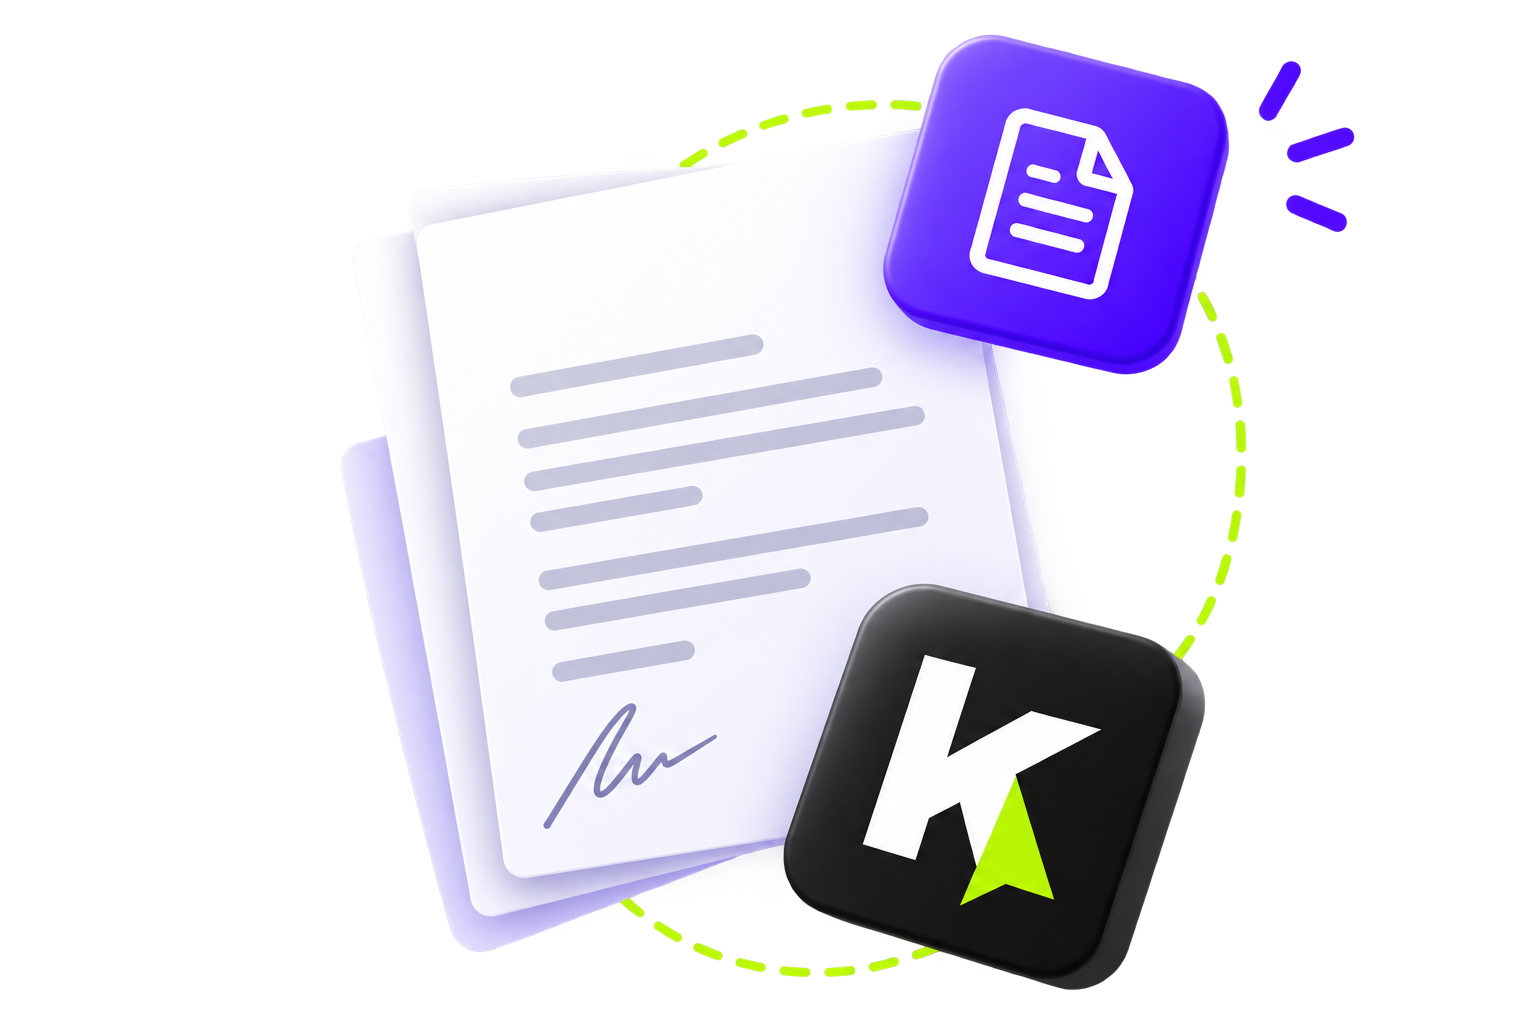
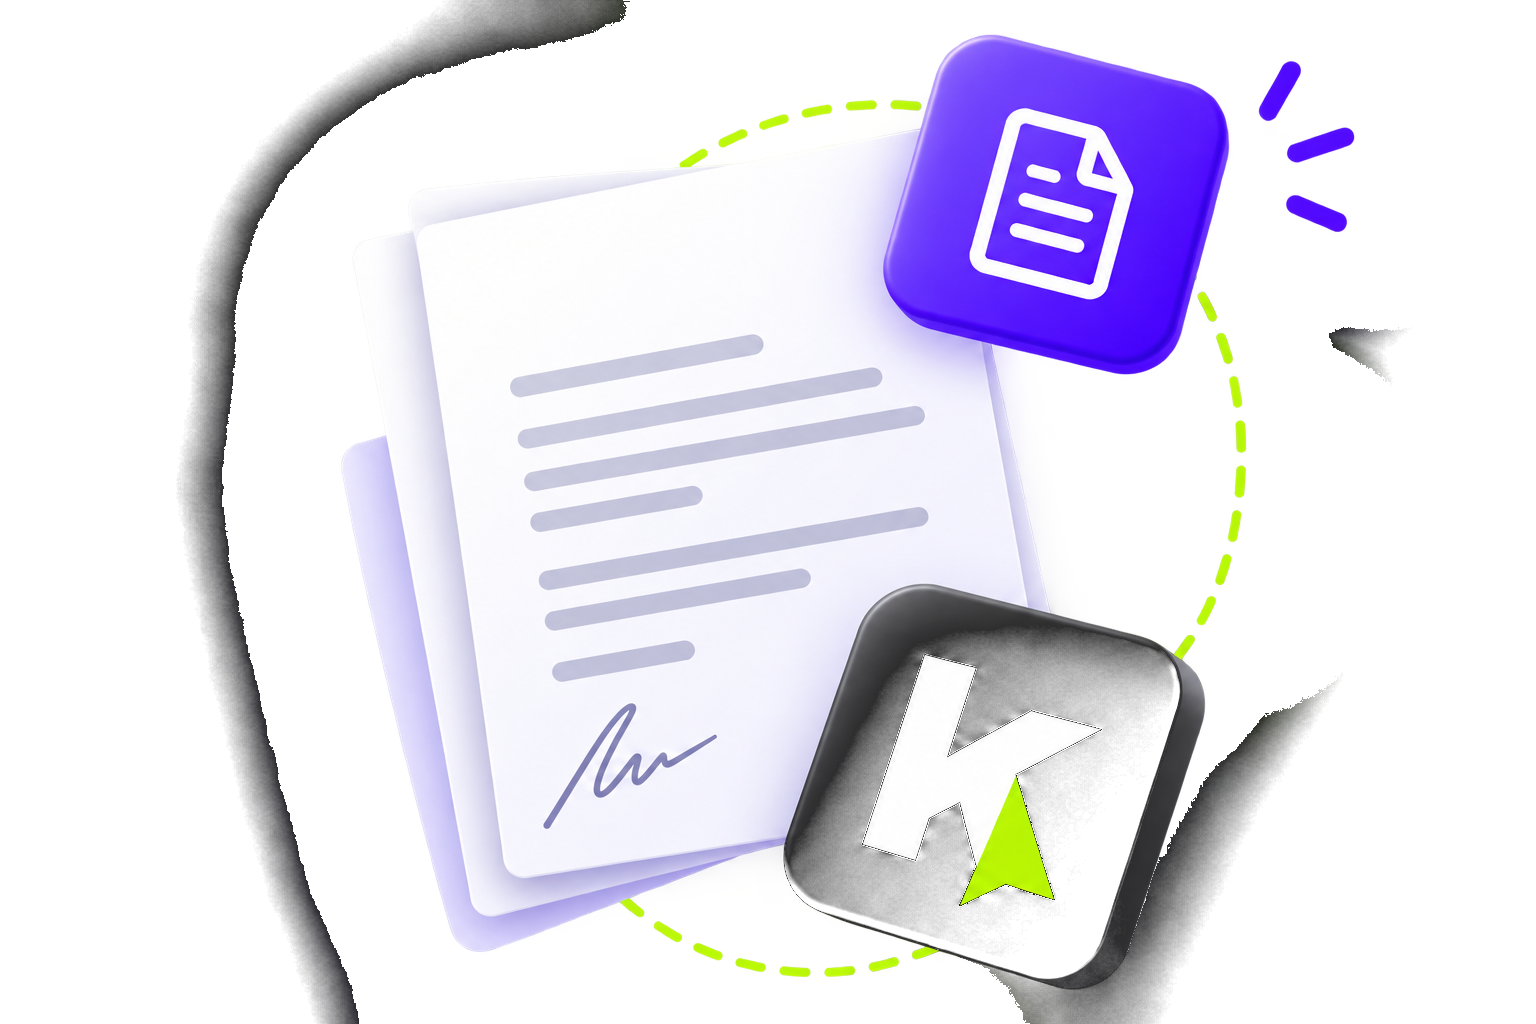
реквизиты

Changed region(s): [[0.5, 0.5938, 0.875, 1.0], [0.0938, 0.0, 0.4062, 1.0], [0.8438, 0.3125, 0.9062, 0.375]]

diff --git a/src/pages/Requisites.tsx b/src/pages/Requisites.tsx
@@ -116,15 +116,15 @@ export default function Requisites() {
             radial-gradient(circle at 72% 58%, rgba(221, 214, 254, 0.75) 0%, transparent 62%);
           filter: blur(6px);
           z-index: 0;
+          pointer-events: none;
         }
         .requisites-page .hero-img {
           position: relative;
-          z-index: 1;
+          z-index: 2;
           width: 100%;
           height: auto;
           display: block;
-          /* чёрный фон PNG становится «прозрачным» без контура от вырезания */
-          mix-blend-mode: lighten;
+          /* картинка поверх фиолетового пятна; чёрный фон вырезан в PNG */
         }
         .requisites-page .card {
           position: relative;
